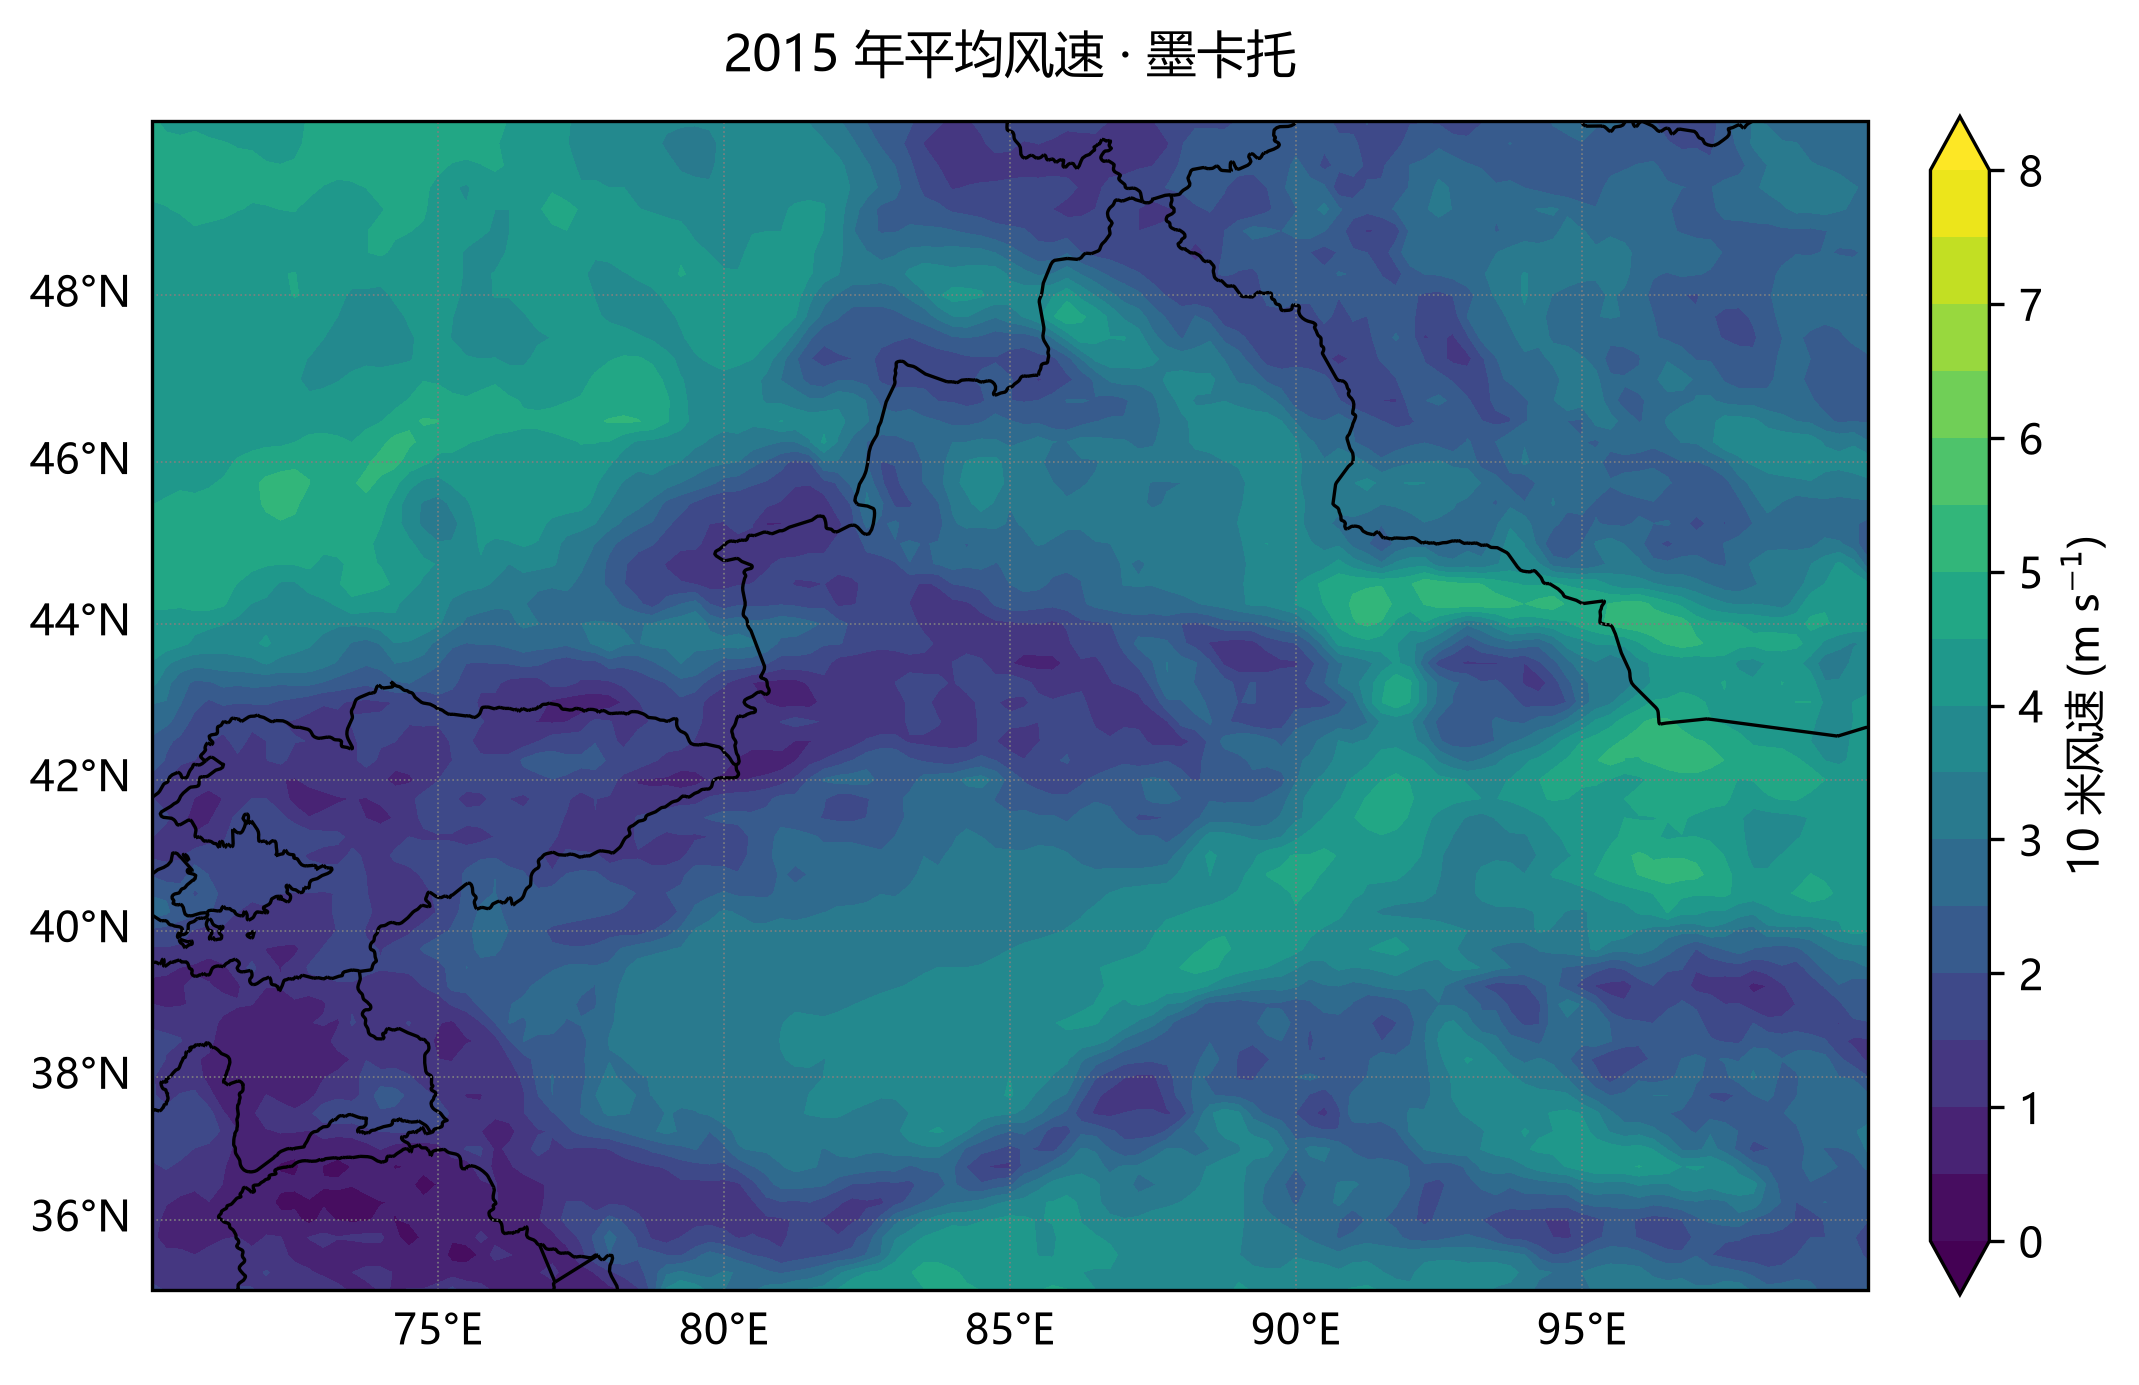
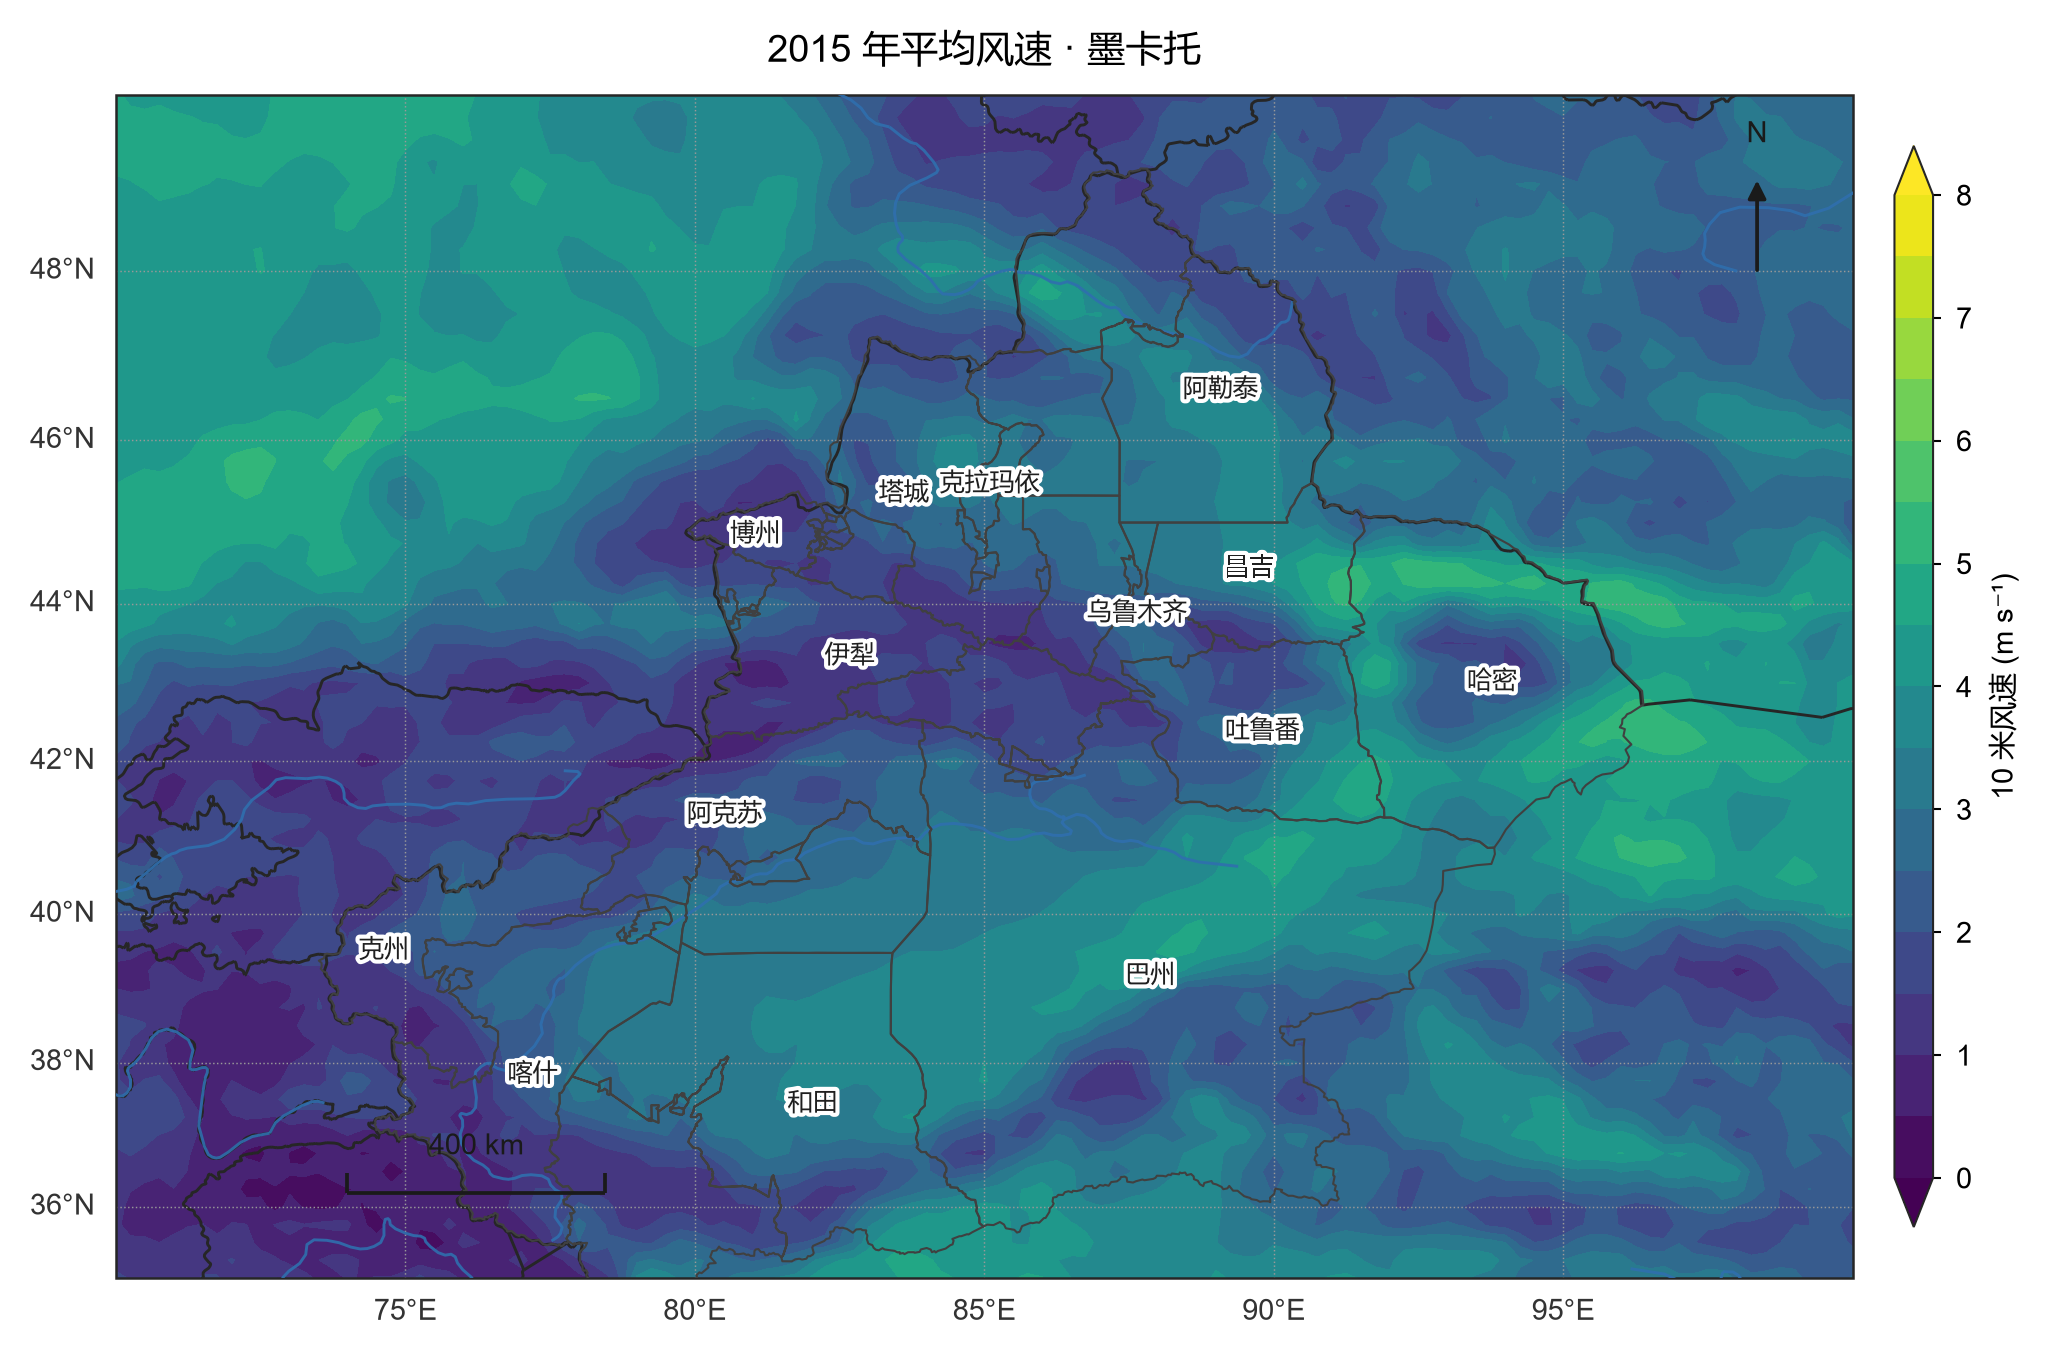
style: 用新期刊风格重跑全部成果图（四联图/月平均/时间序列/极端指数/投影对比）+ 修 12 号脚本

diff --git a/2_程序/12_投影对比.py b/2_程序/12_投影对比.py
@@ -40,8 +40,6 @@ INFO = {
     "mercator": ("墨卡托", "保角，但高纬面积放大"),
 }
 
-eplot.plot_map(field, "x.png", projection="lambert",
-               rivers=True, admin=True, scalebar=True, north=True)
 def main() -> int:
     eplot.setup_style()
 
